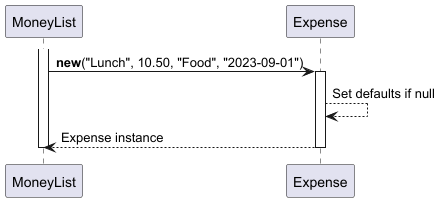
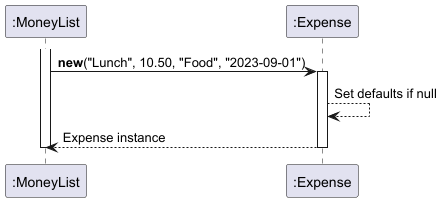
Added colons in front of entites in all sequence diagrams

diff --git a/docs/DeveloperGuide.md b/docs/DeveloperGuide.md
@@ -313,7 +313,7 @@ Here is the UML sequence diagram of `Storage.java`:
 
 ![Image](diagrams/Storage_Seq.png)
 
-**Warning**: Due to unexplained image exportation issues, some activation bars will have missing lines.
+**Warning**: Due to unexplained image exportation issues, some activation bars will have missing lines at the top.
 The original `.puml` files have complete activation bars.
 
 This UML sequence diagram illustrates the file read/write workflow:
